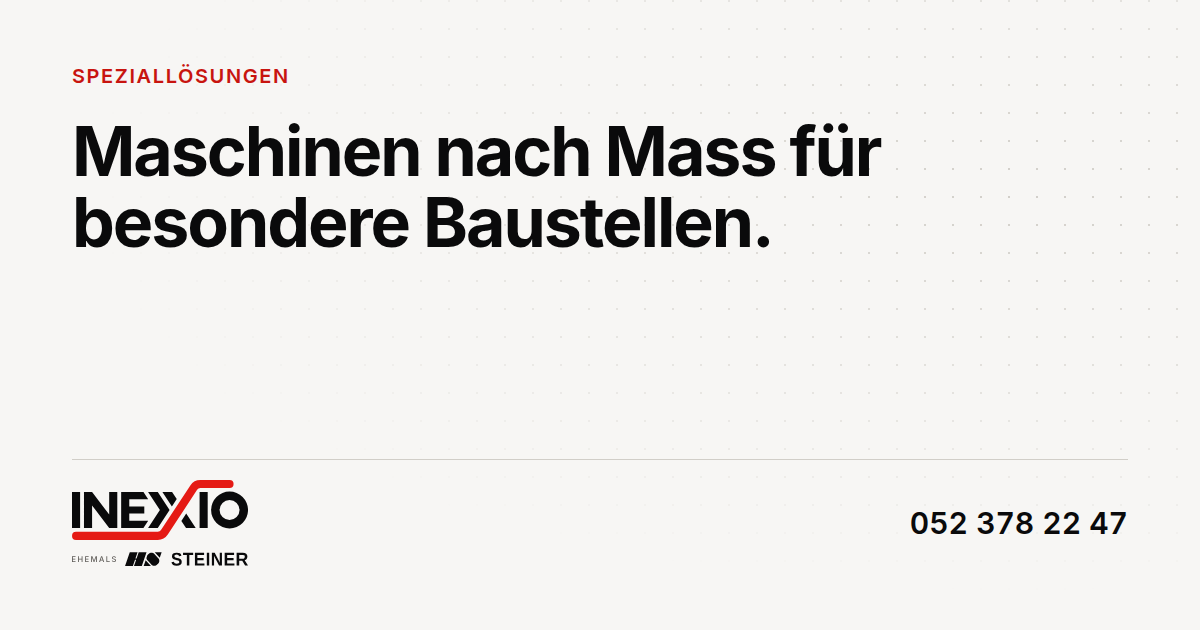
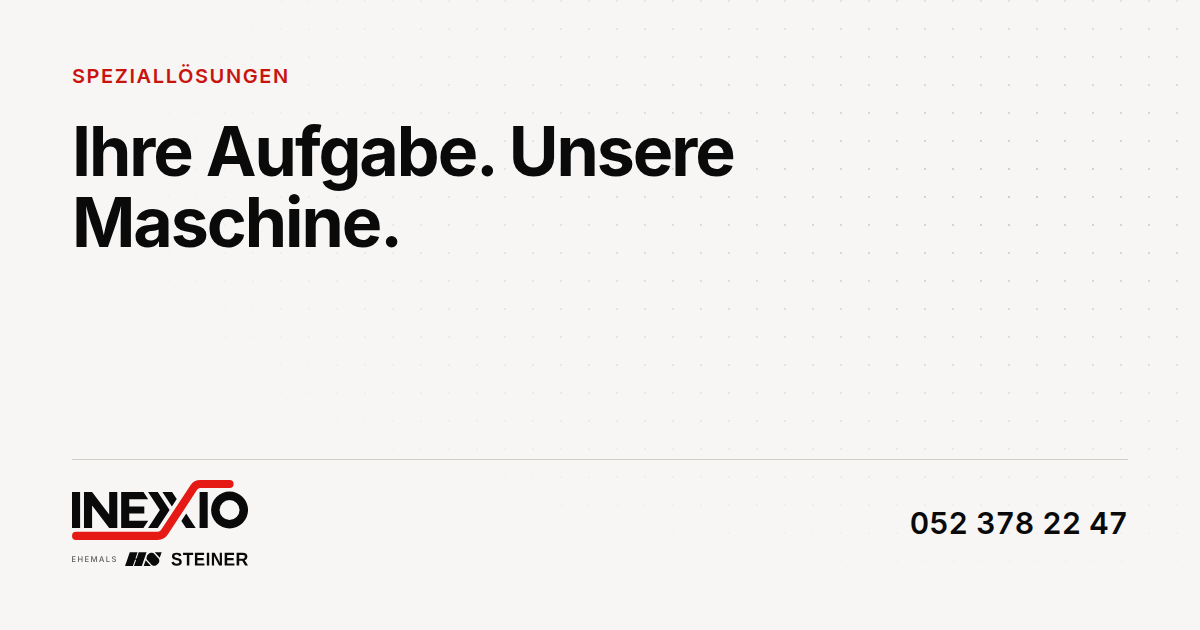
Website: Speziallösungen neu – Spezialmaschinen für Krane, Fahrzeuge und Baumaschinen
- Eigenes Layout: Aussage «Ihre Aufgabe. Unsere Maschine.», Bildsprache
  «Grau ist die Serie, Rot ist, was wir dazubauen», vier belegte Fakten
- Das Prinzip mit drei Gewinnen, drei Felder (Krane, Fahrzeuge, Baumaschinen)
  mit isometrischen Bildern, Co-Entwicklung, Ablauf, Wer dahintersteht
- Bereichstext, Branchen-Zeile und Startseiten-Satz auf alle drei Felder erweitert

Claude-Session: https://claude.ai/code/session_01EndLwyiQ4Tfpc2aytRCXLW

Changed region(s): [[0.0617, 0.181, 0.74, 0.3921]]

diff --git a/website/src/content/spezialloesungen.ts b/website/src/content/spezialloesungen.ts
@@ -1,7 +1,12 @@
 /**
- * Speziallösungen – Spezialmaschinenbau für den Bau: Maschinen, die eine bestimmte Aufgabe
- * auf einer besonderen Baustelle erledigen, oft automatisiert. Einzelstücke und Kleinserien,
- * keine Serienmaschinen. Eigene Bereichsseite ohne Unterseiten.
+ * Speziallösungen – Spezialmaschinenbau quer durch alle Bereiche: für Krane, Fahrzeuge und
+ * Baumaschinen. Maschinen, Anbauten und Vorrichtungen, die eine bestimmte Aufgabe erledigen,
+ * oft automatisiert. Einzelstücke und Kleinserien, keine Serienmaschinen.
+ *
+ * Die Seite hat ein eigenes Layout (src/pages/spezialloesungen.astro); das `SubPage`-Objekt
+ * liefert Titel, Beschreibung, Zusammenfassung, Leistungsumfang und FAQ für Sitemap,
+ * llms.txt und JSON-LD. Bildsprache: Grau ist die Serie, Rot ist, was wir dazubauen.
+ *
  * Nicht auf die Seite: Mietpool, Hinweise zu CE oder Maschinenverordnung, Konditionen der
  * Co-Entwicklung (Prozentsätze) – die gibt es im Gespräch.
  */
@@ -13,90 +18,152 @@ export const spezialloesungen: SubPage = {
   area: 'spezialloesungen',
   path: '/spezialloesungen',
   crumb: 'Speziallösungen',
-  title: 'Spezialmaschinen für den Bau',
+  title: 'Spezialmaschinen nach Mass',
   description:
-    'Sondermaschinen, Vorrichtungen und Anbauten für Baugeräte – für besondere Baustellen, als Einzelstück oder Kleinserie. Mit Garantie. Aus Tuttwil-Wängi TG.',
+    'Wenn kein Hersteller liefert, was Ihre Aufgabe braucht: Spezialmaschinen, Anbauten und Vorrichtungen für Krane, Fahrzeuge und Baumaschinen. Mit Garantie.',
   hero: {
     eyebrow: 'Speziallösungen',
-    h1: 'Spezialmaschinen nach Mass für die ==Baustelle==',
+    h1: 'Ihre Aufgabe. Unsere ==Maschine==.',
     lead:
-      'Für Aufgaben, die kein Hersteller löst: Wir konstruieren und bauen Sondermaschinen, Vorrichtungen und Anbauten für Ihre Geräte – als Einzelstück oder Kleinserie, unabhängig von der Marke.',
+      'Wenn kein Hersteller liefert, was Ihre Arbeit verlangt, bauen wir es: Spezialmaschinen, Anbauten und Vorrichtungen für Krane, Fahrzeuge und Baumaschinen – als Einzelstück oder Kleinserie, für Geräte jeder Marke.',
     photo: 'arbeit-werkstatt',
     primary: { label: 'Aufgabe schildern', href: '#anfrage' },
   },
   summary:
-    '{{brand.full}} baut Spezialmaschinen für den Bau: Sondermaschinen und Vorrichtungen für besondere Baustellen, die Automatisierung von Abläufen und Anbauten für bestehende Geräte – etwa Rüttler, Podeste und Begehungen, Klemmen, Hilfskrane und Greifer. Einzelstücke und Kleinserien, unabhängig von der Marke des Geräts, konstruiert und gebaut in der eigenen Werkstatt in Tuttwil-Wängi TG. Nicht zufrieden, zahlen Sie nur die Hälfte.',
+    '{{brand.full}} baut Spezialmaschinen nach Mass – für Krane, Fahrzeuge und Baumaschinen: Sonderkrane, Hilfskrane und Lastaufnahmen, Sonderaufbauten und Anbauten für Fahrzeuge, Anbaugeräte wie Rüttler, Klemmen und Greifer, Podeste und Begehungen, Vorrichtungen und die Automatisierung von Abläufen. Einzelstücke und Kleinserien, unabhängig von der Marke des Geräts, konstruiert von einem Maschinenbauingenieur und gebaut in der eigenen Werkstatt in Tuttwil-Wängi TG. Fixpreis vor Baubeginn; nicht zufrieden, zahlen Sie nur die Hälfte.',
   glance: {
-    forWhom: 'Bau- und Spezialtiefbauunternehmen mit eigener Geräteflotte, Vermieter und Händler von Baugeräten.',
+    forWhom: 'Bauunternehmen und Spezialtiefbau mit eigener Geräteflotte, Vermieter und Händler von Baugeräten – und alle Betriebe mit Kranen oder Fahrzeugen, deren Aufgabe kein Hersteller löst.',
     what: 'Machbarkeit prüfen, konstruieren, in der eigenen Werkstatt bauen und bei Ihnen in Betrieb nehmen.',
-    deliverables: 'Eine Maschine oder einen Anbau, der genau Ihre Aufgabe erledigt – mit Zeichnungen und Unterlagen.',
+    deliverables: 'Eine Maschine, die genau Ihre Aufgabe erledigt – mit Zeichnungen, Unterlagen und Service aus derselben Hand.',
   },
   promises: ['garantie'],
   scope: {
     title: 'Was wir bauen',
     lead: 'Einzelstücke und Kleinserien – keine Serienmaschinen.',
     items: [
-      { title: 'Sondermaschinen', text: 'Für eine bestimmte Aufgabe auf einer besonderen Baustelle – wo es nichts zu kaufen gibt.' },
+      { title: 'Für Krane', text: 'Sonderkrane, Hilfskrane, Ausleger, Lastaufnahmen und Greifer nach Mass.' },
+      { title: 'Für Fahrzeuge', text: 'Sonderaufbauten und Anbauten, die kein Hersteller anbietet.' },
+      { title: 'Für Baumaschinen', text: 'Anbaugeräte wie Rüttler, Klemmen und Greifer, Podeste und Begehungen.' },
       { title: 'Vorrichtungen', text: 'Damit ein Arbeitsschritt sicher, schnell und wiederholbar gelingt.' },
       { title: 'Automatisierung', text: 'Abläufe, die heute Hand und Zeit kosten, laufen danach von selbst.' },
-      { title: 'Anbauten für bestehende Geräte', text: 'Rüttler, Podeste und Begehungen, Klemmen, Hilfskrane, Greifer.' },
-      { title: 'Markenunabhängig', text: 'Für Geräte aller Hersteller – wir passen den Anbau an Ihr Gerät an.' },
       { title: 'Service danach', text: 'Wer es gebaut hat, kennt es – Wartung und Reparatur aus derselben Hand.' },
     ],
   },
   faq: [
     {
       q: 'Welche Aufträge passen zu Ihnen?',
-      a: 'Einzelstücke und Kleinserien – vom Anbau für ein bestehendes Gerät bis zur Sondermaschine für eine besondere Baustelle. Serienmaschinen bauen wir nicht.',
+      a: 'Einzelstücke und Kleinserien – vom Anbau für ein bestehendes Gerät bis zur Maschine für eine besondere Baustelle. Serienmaschinen bauen wir nicht.',
     },
     {
       q: 'Brauche ich eine fertige Zeichnung?',
       a: 'Nein. Schildern Sie die Aufgabe – eine Skizze, ein Foto oder ein Video vom Einsatz genügt. Die Konstruktion übernehmen wir.',
     },
     {
+      q: 'Was kostet eine Speziallösung?',
+      a: 'Nach der Machbarkeitsprüfung erhalten Sie einen Fixpreis – bevor wir bauen.',
+    },
+    promiseFaq.garantie,
+    {
       q: 'Was heisst Co-Entwicklung?',
       a: 'Sie entwickeln mit und zahlen dafür weniger. Die Rechte an der Lösung bleiben bei {{brand.name}}; verkaufen wir sie weiter, erhalten Sie einen Anteil. Die Einzelheiten besprechen wir im Gespräch.',
     },
     {
-      q: 'Was kostet eine Speziallösung?',
-      a: 'Nach der Machbarkeitsprüfung erhalten Sie einen Fixpreis – vor jeder Arbeit.',
-    },
-    promiseFaq.garantie,
-    {
       q: 'Bauen Sie für Geräte jeder Marke?',
-      a: 'Ja. Wir sind unabhängig und passen den Anbau an Ihr Gerät an.',
+      a: 'Ja. Wir sind unabhängig und passen die Lösung an Ihr Gerät an.',
+    },
+    {
+      q: 'Bleibt die Lösung bei Ihnen in Betreuung?',
+      a: 'Ja. Wartung, Reparatur und Ersatzteile kommen aus derselben Werkstatt, die sie gebaut hat.',
     },
   ],
   related: [
     { href: '/krantechnik/krane-nach-mass', label: 'Krane nach Mass', text: 'Sonderkrane und Industriekrane.' },
     { href: '/fahrzeugtechnik/trommeltausch', label: 'Trommeltausch', text: 'Neue Trommel statt neuer Fahrmischer.' },
-    { href: '/ratgeber/kranpruefung-schweiz', label: 'Kranprüfung in der Schweiz', text: 'Was Prüfpflicht und Dokumentation verlangen.', kind: 'ratgeber' },
   ],
-  service: { name: 'Speziallösungen', serviceType: 'Spezialmaschinenbau für den Bau: Sondermaschinen, Vorrichtungen und Anbauten für Baugeräte' },
-  keywords: ['Spezialmaschinenbau Bau', 'Sondermaschine Baustelle', 'Anbaugerät Baumaschine', 'Spezialtiefbau Gerät', 'Vorrichtungsbau'],
+  service: { name: 'Speziallösungen', serviceType: 'Spezialmaschinenbau für Krane, Fahrzeuge und Baumaschinen' },
+  keywords: ['Spezialmaschinenbau', 'Sondermaschine Baustelle', 'Anbaugerät Baumaschine', 'Sonderkran', 'Sonderaufbau', 'Vorrichtungsbau'],
 };
 
-/** Modul: Ablauf – kurz. */
+/** Kurz und belegt – unter dem Seitenkopf. */
+export const specialFacts = [
+  { value: 'Einzelstück', label: 'bis Kleinserie' },
+  { value: 'Jede Marke', label: 'wir passen an Ihr Gerät an' },
+  { value: 'Fixpreis', label: 'bevor wir bauen' },
+  { value: '50 %', label: 'zurück, wenn Sie nicht zufrieden sind' },
+];
+
+/** Das Prinzip: warum es Speziallösungen braucht – und was Sie davon haben. */
+export const specialPrinciple = {
+  eyebrow: 'Das Prinzip',
+  title: 'Serienmaschinen sind für den Durchschnitt gebaut. Ihre Aufgabe ist es nicht.',
+  lead: 'Was dazwischen fehlt, erledigt heute meist ein Mensch – mit Zeit, Umwegen und Risiko. Wir bauen die Maschine, die diese Lücke schliesst.',
+  gains: [
+    { title: 'Weniger Handarbeit', text: 'Was heute von Hand geschieht, erledigt danach die Maschine – schneller und jedes Mal gleich.' },
+    { title: 'Mehr Sicherheit', text: 'Wer nicht mehr improvisieren muss, steht nicht mehr unter der Last.' },
+    { title: 'Ihr Vorsprung', text: 'Sie nehmen Aufträge an, die andere mit Seriengeräten ablehnen müssen.' },
+  ],
+};
+
+/** Drei Felder, ein Prinzip – je mit Bild (src/assets/illustrations/spezial-*.svg). */
+export const specialFields = [
+  {
+    id: 'krane',
+    illo: 'krane' as const,
+    title: 'Für Krane',
+    text: 'Wo der Katalogkran aufhört: Ausleger, Hilfskrane und Lastaufnahmen für die Last, die nur Sie heben.',
+    examples: ['Sonderkrane und Hilfskrane', 'Ausleger und Hebezeuge nach Mass', 'Lastaufnahmen und Greifer'],
+    link: { href: '/krantechnik/krane-nach-mass#sonderkrane', label: 'Krane nach Mass' },
+  },
+  {
+    id: 'fahrzeuge',
+    illo: 'fahrzeuge' as const,
+    title: 'Für Fahrzeuge',
+    text: 'Das Fahrgestell ist Serie, die Aufgabe nicht: Aufbauten und Anbauten, die kein Hersteller anbietet.',
+    examples: ['Sonderaufbauten', 'Ladekrane und Arbeitsbühnen am Fahrzeug', 'Anbauten am Fahrmischer'],
+    link: { href: '/fahrzeugtechnik', label: 'Fahrzeugtechnik' },
+  },
+  {
+    id: 'baumaschinen',
+    illo: 'baumaschinen' as const,
+    title: 'Für Baumaschinen',
+    text: 'Ihr Gerät kann mehr, als der Hersteller vorsieht: Anbaugeräte, Vorrichtungen und Automatisierung für die besondere Baustelle.',
+    examples: ['Rüttler, Klemmen und Greifer', 'Podeste und Begehungen', 'Vorrichtungen und Automatisierung'],
+  },
+];
+
+/** Modul: Ablauf – und was Sie dafür tun. */
 export const specialSteps = {
-  title: 'So läuft es',
+  title: 'Vom Problem zur Maschine',
+  lead: 'Ihr Aufwand zu Beginn: eine Skizze, ein Foto oder ein Video vom Einsatz.',
   items: [
-    { title: 'Aufgabe', text: 'Sie schildern, was die Maschine leisten soll – mit Skizze, Foto oder Video vom Einsatz.' },
-    { title: 'Machbarkeit', text: 'Wir prüfen, ob und wie es geht, und nennen den Rahmen.' },
-    { title: 'Konstruktion', text: 'Wir konstruieren und rechnen; Sie geben die Lösung frei.' },
+    { title: 'Aufgabe', text: 'Sie schildern, was die Maschine leisten soll.' },
+    { title: 'Machbarkeit', text: 'Wir prüfen, ob und wie es geht, und nennen den Fixpreis.' },
+    { title: 'Konstruktion', text: 'Wir konstruieren und rechnen; Sie geben frei.' },
     { title: 'Bau', text: 'In unserer eigenen Werkstatt in Tuttwil.' },
-    { title: 'Inbetriebnahme', text: 'Bei Ihnen, mit Einweisung, Zeichnungen und Unterlagen.' },
+    { title: 'Inbetriebnahme', text: 'Bei Ihnen, mit Einweisung und Unterlagen.' },
   ] satisfies Step[],
 };
 
 /** Modul: Co-Entwicklung (Anker #co-entwicklung) – ohne Prozentsätze, ohne Konditionen. */
 export const coDevelopment = {
-  title: 'Mitentwickeln und weniger zahlen',
-  text: 'Bringen Sie Ihre Erfahrung von der Baustelle ein – dafür zahlen Sie weniger. Die Rechte an der Lösung bleiben bei {{brand.name}}, und verkaufen wir sie weiter, erhalten Sie einen Anteil daran. Die Einzelheiten besprechen wir im Gespräch.',
-  points: ['Ihr Wissen aus dem Einsatz', 'Unser Ingenieurwissen und unsere Werkstatt', 'Ein Anteil an weiteren Verkäufen'],
+  eyebrow: 'Co-Entwicklung',
+  title: 'Entwickeln Sie mit – und verdienen Sie mit.',
+  text: 'Sie kennen die Baustelle, wir die Maschine. Bringen Sie Ihre Erfahrung ein und zahlen Sie dafür weniger. Die Rechte an der Lösung bleiben bei {{brand.name}} – und verkaufen wir sie weiter, erhalten Sie einen Anteil. Die Einzelheiten besprechen wir im Gespräch.',
+  points: [
+    { title: 'Sie zahlen weniger', text: 'Ihr Wissen aus dem Einsatz ist Teil der Entwicklung.' },
+    { title: 'Sie verdienen mit', text: 'An jedem weiteren Verkauf der Lösung erhalten Sie einen Anteil.' },
+    { title: 'Sie sind zuerst dran', text: 'Die Maschine entsteht an Ihrer Aufgabe – und läuft zuerst bei Ihnen.' },
+  ],
 };
 
 /** Modul: Wer dahintersteht – sachlich, kurz, ohne fremde Logos. */
 export const specialBackground = {
-  title: 'Wir kennen die Wünsche, die Hersteller nicht erfüllen',
-  text: `${site.people.owner.name} ist Maschinenbauingenieur und hat bei Liebherr Bohrgeräte mitentwickelt. Er weiss, wo Serienmaschinen an ihre Grenzen kommen – und wie man eine Lösung baut, die auf der Baustelle hält.`,
+  eyebrow: 'Wer dahintersteht',
+  title: 'Ingenieur und Werkstatt unter einem Dach',
+  text: `${site.people.owner.name} ist Maschinenbauingenieur und hat bei Liebherr Bohrgeräte mitentwickelt. Er kennt die Wünsche, die Hersteller nicht erfüllen – und weiss, wie man eine Lösung baut, die auf der Baustelle hält.`,
+  facts: [
+    'Entwicklung von Bohrgeräten bei Liebherr',
+    'Krane bauen wir seit {{history.cranesSince}} selbst',
+    'Konstruktion, Stahlbau und Montage aus einer Hand',
+  ],
 };

diff --git a/website/src/content/start.ts b/website/src/content/start.ts
@@ -28,7 +28,7 @@ export const start = {
   entries: {
     krantechnik: 'Ihr Kran läuft – oder Sie zahlen nicht.',
     fahrzeugtechnik: 'Neue Trommel statt neuer Fahrmischer.',
-    spezialloesungen: 'Maschinen nach Mass für besondere Baustellen.',
+    spezialloesungen: 'Was kein Hersteller liefert, bauen wir.',
   } as Record<string, string>,
 
   summary:

diff --git a/website/OFFENE_PUNKTE.md b/website/OFFENE_PUNKTE.md
@@ -28,7 +28,7 @@ Empfehlung: ein professioneller Fototag – der grösste Hebel für die Qualitä
 | `servicefahrzeug` (zurzeit Beispielbild) | Servicefahrzeug, beschriftet, vor einer Kundenhalle oder der Werkstatt, quer | 3:2 | noch nicht verwendet |
 | `portraet-clemens` (zurzeit Beispielbild) | Porträt Clemens Fritsche, hoch, neutraler Hintergrund, Arbeitskleidung oder Hemd | 4:5 | `/`, `/spezialloesungen`, `/ueber-uns` |
 | `team` (zurzeit Beispielbild) | Teamfoto in der Werkstatt (nur mit Einverständnis aller Abgebildeten), quer | 3:2 | `/404`, `/datenschutz`, `/fahrzeugtechnik/trommeltausch`, `/fahrzeugtechnik/verschleissteile`, `/fahrzeugtechnik`, `/impressum`, `/`, `/karriere`, `/kontakt/danke`, `/kontakt`, `/krantechnik/heukrananlagen`, `/krantechnik/krane-nach-mass`, `/krantechnik/kranservice`, `/krantechnik`, `/ratgeber/heukrananlage-planen`, `/ratgeber/kranpruefung-schweiz`, `/ratgeber/verschleissteile-fahrmischer`, `/ratgeber`, `/service`, `/spezialloesungen`, `/ueber-uns` |
-| `arbeit-werkstatt` (zurzeit Beispielbild) | Schweissarbeit oder Stahlkonstruktion in der Werkstatt in Tuttwil, Funken und Schutzschild, quer | 4:3 | `/`, `/karriere`, `/krantechnik/krane-nach-mass`, `/spezialloesungen`, `/ueber-uns` |
+| `arbeit-werkstatt` (zurzeit Beispielbild) | Schweissarbeit oder Stahlkonstruktion in der Werkstatt in Tuttwil, Funken und Schutzschild, quer | 4:3 | `/`, `/karriere`, `/krantechnik/krane-nach-mass`, `/ueber-uns` |
 | `aufbau-reparatur` | LKW-Aufbau oder Mulde/Kipper in Reparatur in der Werkstatt, Hydraulikzylinder sichtbar, quer | 4:3 | noch nicht verwendet |
 
 ## Abgeschaltete Sektionen (`features` in `src/config/site.mjs`)
